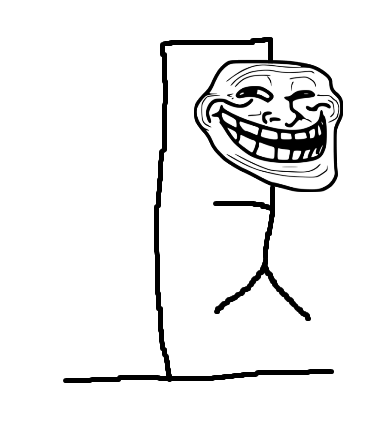
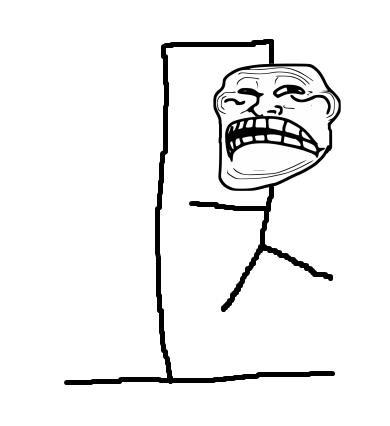
new image assets for the character

diff --git a/js/script.js b/js/script.js
@@ -27,6 +27,7 @@ const alphabet = [
   "z",
 ];
 const bodyParts = [
+  "pole",
   "head",
   "torso",
   "right-leg",
@@ -42,13 +43,37 @@ const words = [
   "aliens",
 ];
 
-class Game {}
-
-class Man {}
-
-class Word {
+class Game {
     constructor() {
+      this.game = $(".game");
+      this.bodyPartsIndex = 0;
+      this.maxBodyPartsIndex = bodyParts.length - 1;
+  
+      this.game.append(`<img src="images/${bodyParts[this.bodyPartsIndex]}.png">`);
+    }
+  
+    updateBodyPart() {
+      if (this.bodyPartsIndex < this.maxBodyPartsIndex) {
+        this.bodyPartsIndex++;
+        $(".game img").attr("src", `images/${bodyParts[this.bodyPartsIndex]}.png`);
+      } else {
+        // Game over condition
+        $("main").html(""); // Clear the inner HTML of the main container
+  
+        // Add Batman spinning logo animation
+        $("main").append(`
+          <img src="images/trollface.png">
+        `);
+  
+        // You can perform other actions here, such as resetting the game.
+      }
+    }
+  }
+  
+  class Word {
+    constructor(game) {
       this.word = words[1].split("");
+      this.game = game;
   
       this.word.forEach((element, index) => {
         $(".cards").append(`
@@ -75,14 +100,19 @@ class Word {
         return indexes;
       }, []);
   
+      if (matchingIndexes.length === 0) {
+        // No matching letters, update the body part
+        this.game.updateBodyPart();
+      }
+  
       // Flip all corresponding cards
       matchingIndexes.forEach((matchingIndex) => {
         const card = $(`.card[data-index="${matchingIndex}"]`);
-        card.toggleClass('flipped');
+        card.toggleClass("flipped");
   
-        const isFlipped = card.hasClass('flipped');
-        const rotation = isFlipped ? 'rotateY(180deg)' : 'rotateY(0deg)';
-        card.find('.card-inner').css('transform', rotation);
+        const isFlipped = card.hasClass("flipped");
+        const rotation = isFlipped ? "rotateY(180deg)" : "rotateY(0deg)";
+        card.find(".card-inner").css("transform", rotation);
       });
     }
   }
@@ -93,16 +123,15 @@ class Word {
       $(".key").click(function (event) {
         // Get the ID of the clicked key
         const keyId = $(this).attr("id");
-
+  
         // Check if the key has already been pressed
         if (!$(this).hasClass("pressed")) {
           // Call the flipCard method of the Word class based on the clicked key
           word.flipCard(keyId);
-        
+  
           // Add a class to indicate that the key has been pressed
           $(this).removeClass("key").addClass("key-pressed").addClass("pressed");
-
-          
+  
           // Remove the click event listener for this key
           $(this).off("click");
         }
@@ -110,11 +139,9 @@ class Word {
     }
   }
   
-  
   $(document).ready(function () {
-    const word = new Word();
+    const game = new Game();
+    const word = new Word(game);
     const keyboard = new Keyboard(word);
   });
-  
-  
   

diff --git a/index.html b/index.html
@@ -13,10 +13,8 @@
       <h1>final - zfw</h1>
     </header>
     <main>
-      <img src="images/left-leg.png" alt="" />
-      <div class="cards">
-
-      </div>
+      <div class="game"></div>
+      <div class="cards"></div>
 
       <div class="keyboard">
         <div class="top-row">
